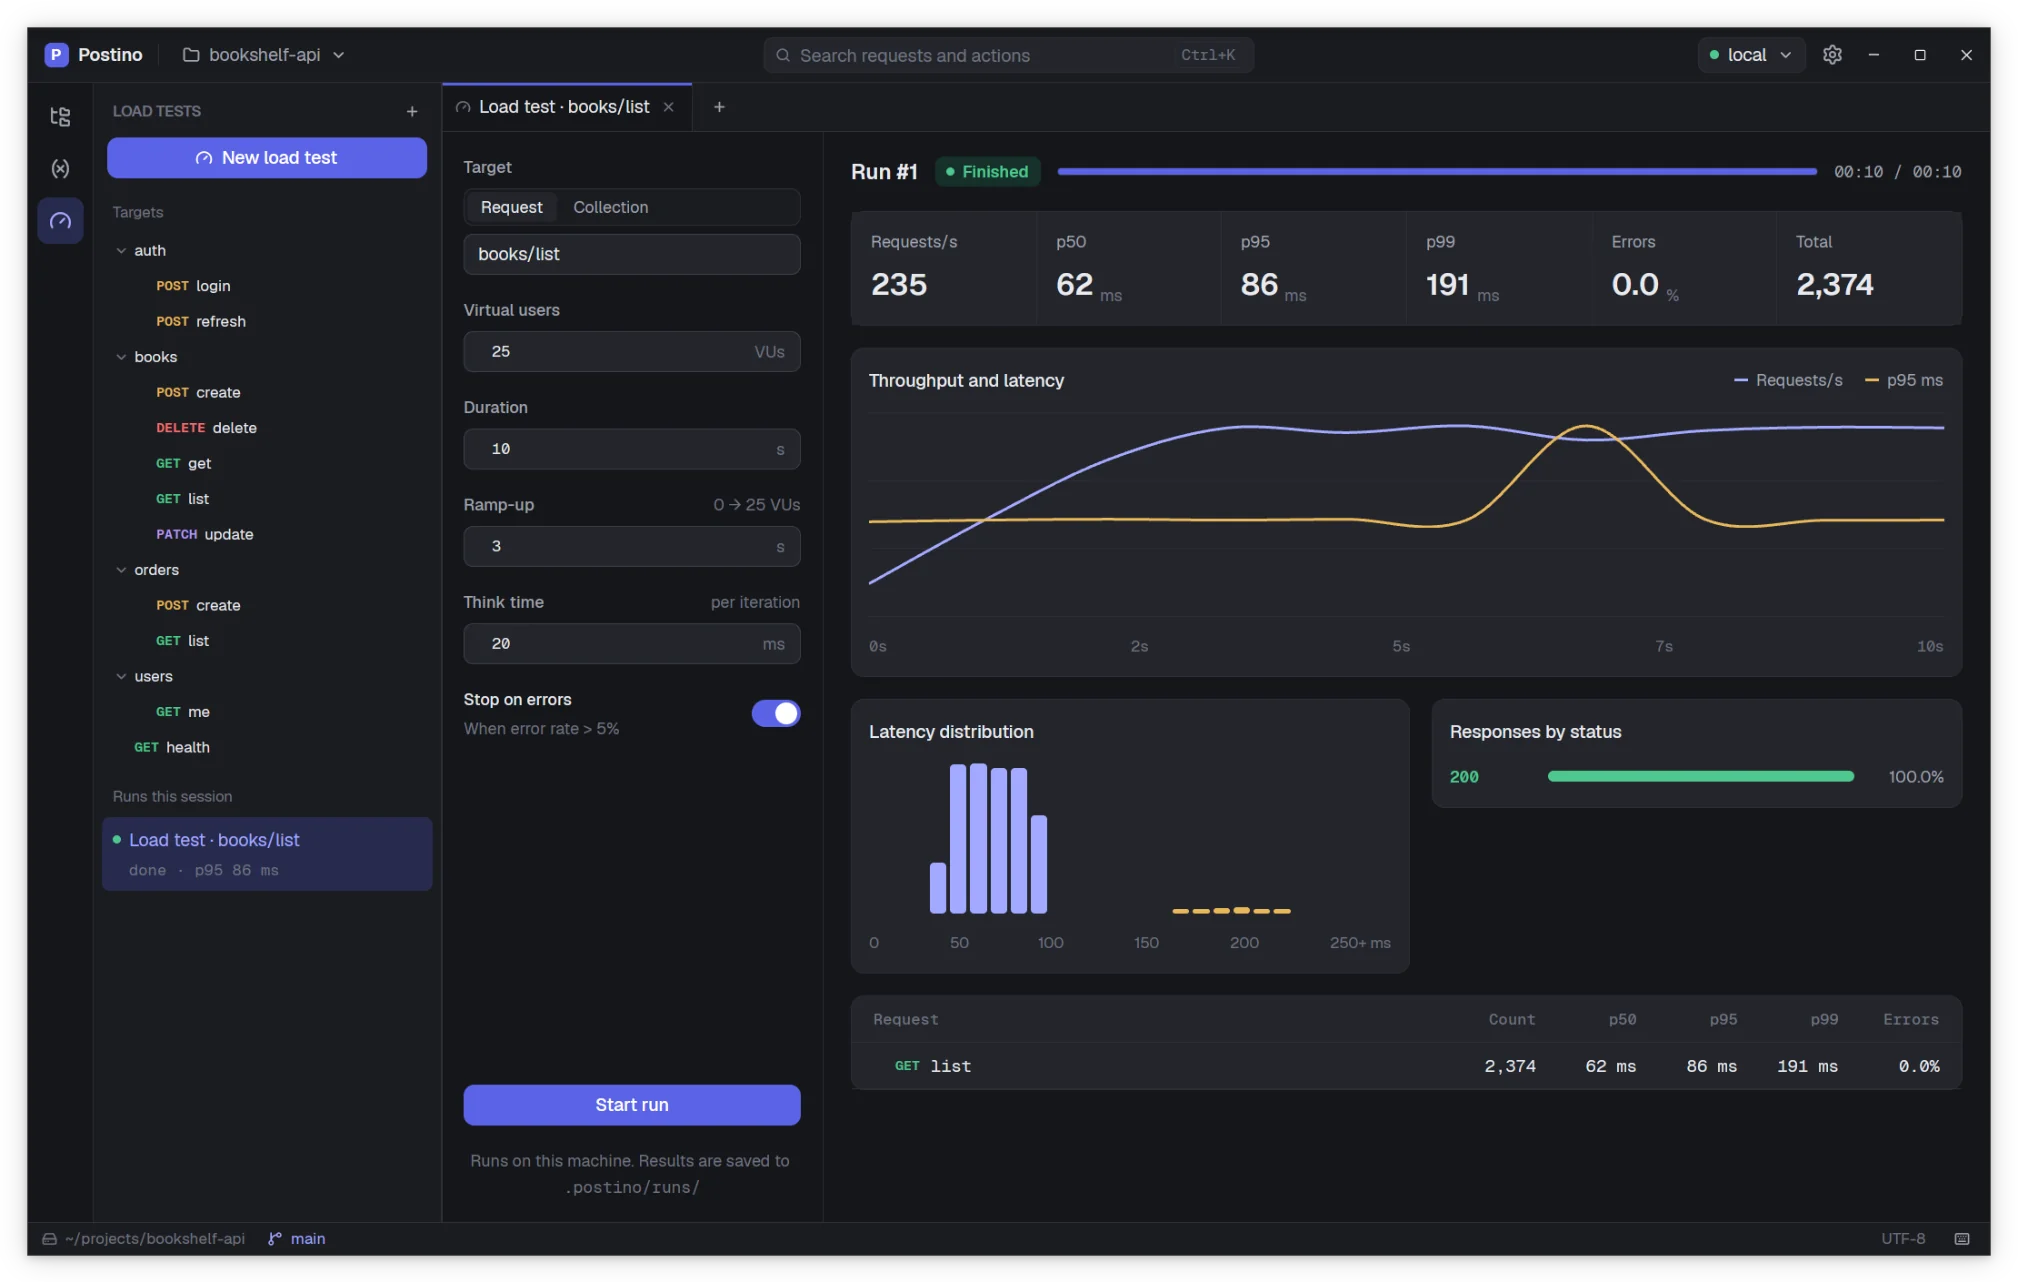
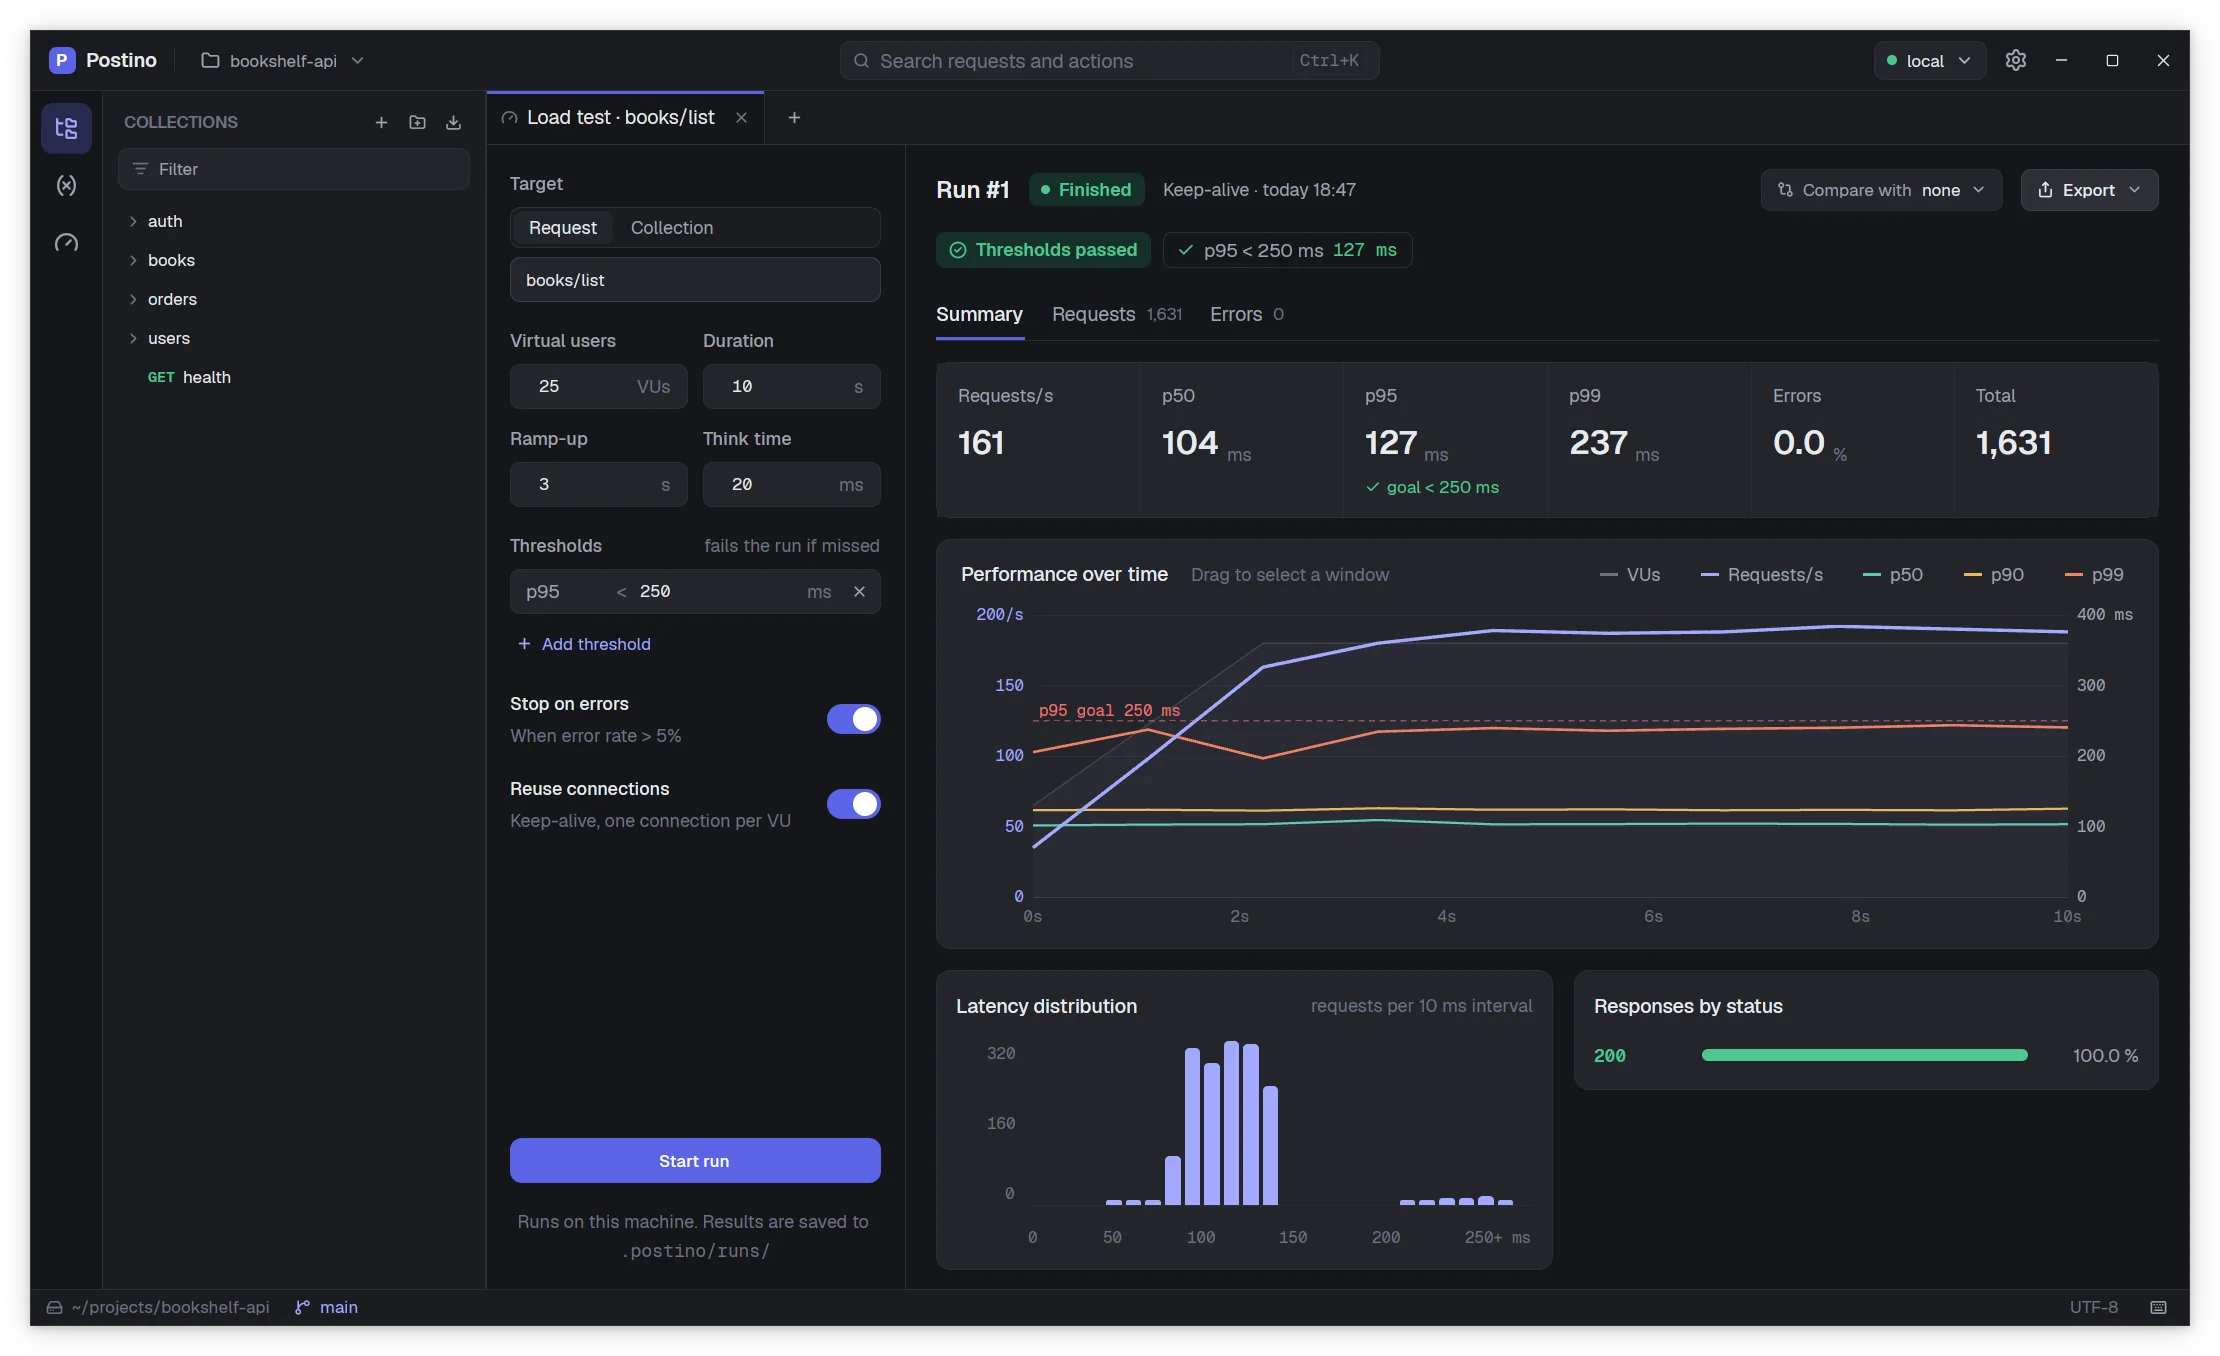
Capture the Load Test v2 results for the website
The load test step of capture.sh follows the new config panel and adds a
p95 threshold, and pointer() measures the compositor's scale instead of
assuming 1.1. Only that step was recalibrated and rerun.

Refs #157

diff --git a/site/screenshots/README.md b/site/screenshots/README.md
@@ -19,9 +19,9 @@ one dark version of each: `hero`, `scripts`, `palette`, `snippet`, `settings`,
 
 ## Requirements
 
-- Linux, KDE Plasma on Wayland with XWayland. The click coordinates are calibrated for a Plasma
-  setup where X11 pointer coordinates are 1.1 times the screenshot pixels (see `pointer()` in the
-  script); on another scale factor, adjust that function.
+- Linux, KDE Plasma on Wayland with XWayland. The click coordinates are screenshot pixels. The
+  compositor scales X11 pointer coordinates by the display scale of the monitor, and `pointer()` in
+  the script measures that factor itself (1.25 and 1.1 have been seen).
 - `spectacle`, `xdotool`, `python3`, `git` and ImageMagick (`magick`) built with WebP support.
 - An unlocked screen. Do not use the keyboard or mouse while it runs (about 3 minutes): the
   script aborts if Postino loses the focus, so keystrokes never reach another application.
